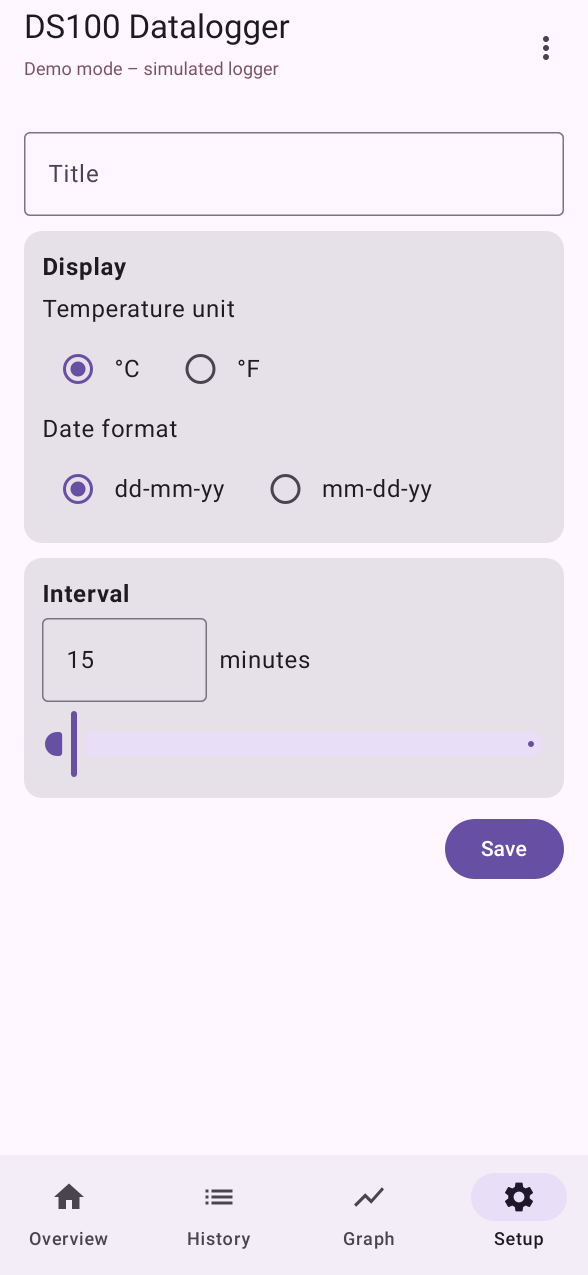
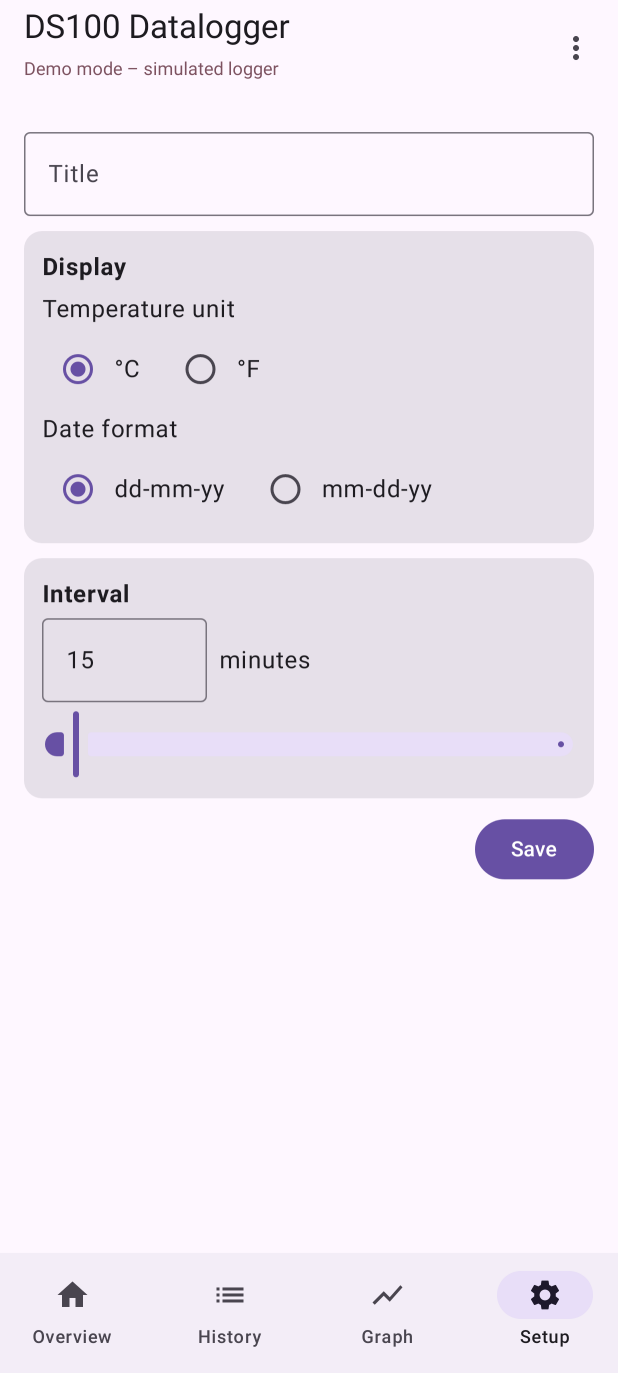
Show all filter chips on Android, more screenshots in the README
- Android: graph type and period chips wrap to a second line instead of
  running off the screen
- screenshot tests use a 412x915 dp screen, so the whole overview fits
- README: Linux main window and graph, Android overview, history, graph
  and setup at the top

diff --git a/android/app/src/main/java/sk/ds100/logger/ui/App.kt b/android/app/src/main/java/sk/ds100/logger/ui/App.kt
@@ -1,4 +1,4 @@
-@file:OptIn(ExperimentalMaterial3Api::class)
+@file:OptIn(ExperimentalMaterial3Api::class, ExperimentalLayoutApi::class)
 
 package sk.ds100.logger.ui
 
@@ -27,7 +27,8 @@ import androidx.compose.foundation.layout.width
 import androidx.compose.foundation.lazy.LazyColumn
 import androidx.compose.foundation.lazy.items
 import androidx.compose.foundation.rememberScrollState
-import androidx.compose.foundation.horizontalScroll
+import androidx.compose.foundation.layout.ExperimentalLayoutApi
+import androidx.compose.foundation.layout.FlowRow
 import androidx.compose.foundation.shape.CircleShape
 import androidx.compose.foundation.text.KeyboardOptions
 import androidx.compose.foundation.text.selection.SelectionContainer
@@ -335,7 +336,7 @@ private fun RangeBar(model: AppModel) {
                 Text(f.date(model.rangeEnd), maxLines = 1)
             }
         }
-        Row(Modifier.horizontalScroll(rememberScrollState()), horizontalArrangement = Arrangement.spacedBy(6.dp)) {
+        FlowRow(horizontalArrangement = Arrangement.spacedBy(6.dp)) {
             FilterChip(false, { model.setRangeDays(0, 0) }, { Text(stringResource(R.string.today)) })
             FilterChip(false, { model.setRangeDays(-1, -1) }, { Text(stringResource(R.string.yesterday)) })
             FilterChip(false, { model.setRangeDays(-6, 0) }, { Text(stringResource(R.string.last7)) })
@@ -435,8 +436,7 @@ private fun GraphScreen(model: AppModel, dark: Boolean) {
     val density = LocalDensity.current.density
 
     Column(Modifier.fillMaxSize()) {
-        Row(Modifier.padding(horizontal = 12.dp).horizontalScroll(rememberScrollState()),
-            horizontalArrangement = Arrangement.spacedBy(6.dp)) {
+        FlowRow(Modifier.padding(horizontal = 12.dp), horizontalArrangement = Arrangement.spacedBy(6.dp)) {
             for ((k, label) in listOf(ChartKind.BOTH to R.string.both, ChartKind.TEMP to R.string.temperature,
                 ChartKind.HUMI to R.string.humidity, ChartKind.DEW to R.string.dewpoint))
                 FilterChip(kind == k, { kind = k }, { Text(stringResource(label)) })

diff --git a/android/app/src/test/java/sk/ds100/logger/ScreenshotTest.kt b/android/app/src/test/java/sk/ds100/logger/ScreenshotTest.kt
@@ -25,7 +25,7 @@ import java.io.ByteArrayOutputStream
 @OptIn(ExperimentalRoborazziApi::class)
 @RunWith(RobolectricTestRunner::class)
 @GraphicsMode(GraphicsMode.Mode.NATIVE)
-@Config(sdk = [34], qualifiers = "en-w392dp-h850dp-xxhdpi")
+@Config(sdk = [34], qualifiers = "en-w412dp-h915dp-xxhdpi")      // e.g. Pixel 7 Pro
 class ScreenshotTest {
     @get:Rule
     val rule = createComposeRule()

diff --git a/README.md b/README.md
@@ -6,9 +6,17 @@ Open-source replacement for the Windows program **DataLogger V2.70** that comes 
 It reads the logger, keeps the history in a local database and shows it as a table and a
 graph. It also changes the logger settings exactly like the Windows program does.
 
-| Linux | Android |
+### Linux
+
+| Main window | Graph |
 |---|---|
-| <img src="docs/screenshots/linux-graph.png" width="520"> | <img src="docs/screenshots/android-graph.png" width="220"> |
+| <img src="docs/screenshots/linux-main.png" width="420"> | <img src="docs/screenshots/linux-graph.png" width="420"> |
+
+### Android
+
+| Overview | History | Graph | Setup |
+|---|---|---|---|
+| <img src="docs/screenshots/android-overview.png" width="200"> | <img src="docs/screenshots/android-history.png" width="200"> | <img src="docs/screenshots/android-graph.png" width="200"> | <img src="docs/screenshots/android-setup.png" width="200"> |
 
 ## Features
 
@@ -98,10 +106,6 @@ to USB-A).
 
 The APK is signed with a development key, so Play Protect may call it an unknown app.
 The data are kept inside the app; export them to CSV before uninstalling it.
-
-| Overview | History | Setup |
-|---|---|---|
-| <img src="docs/screenshots/android-overview.png" width="220"> | <img src="docs/screenshots/android-history.png" width="220"> | <img src="docs/screenshots/android-setup.png" width="220"> |
 
 ## Building from source
 
